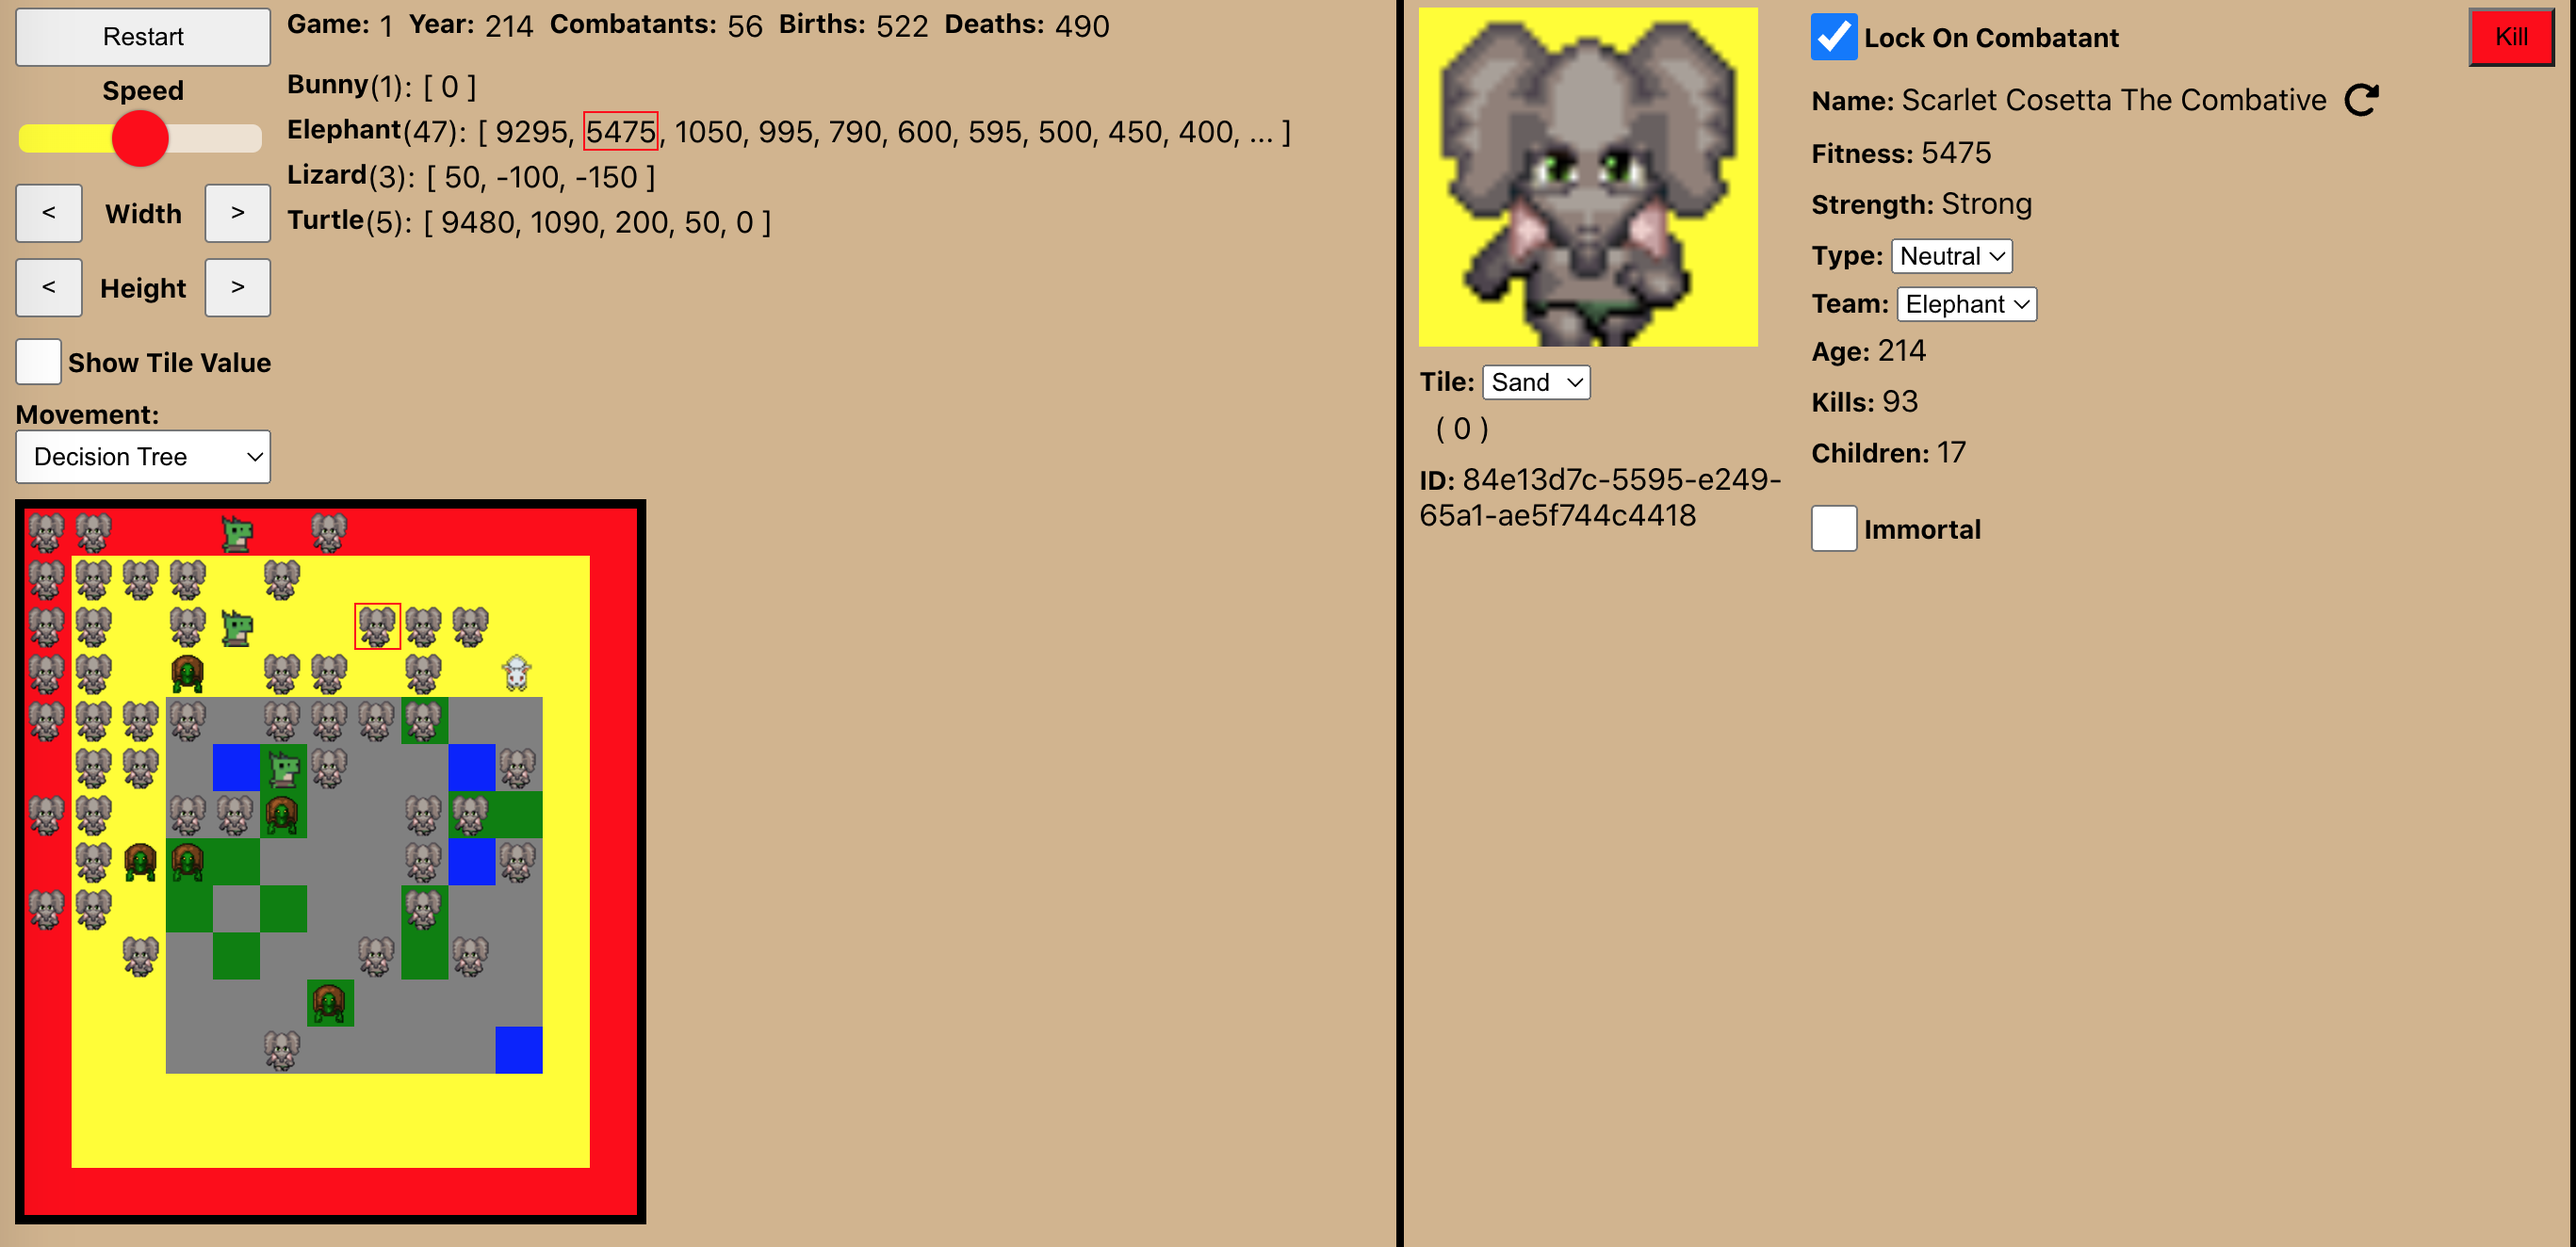
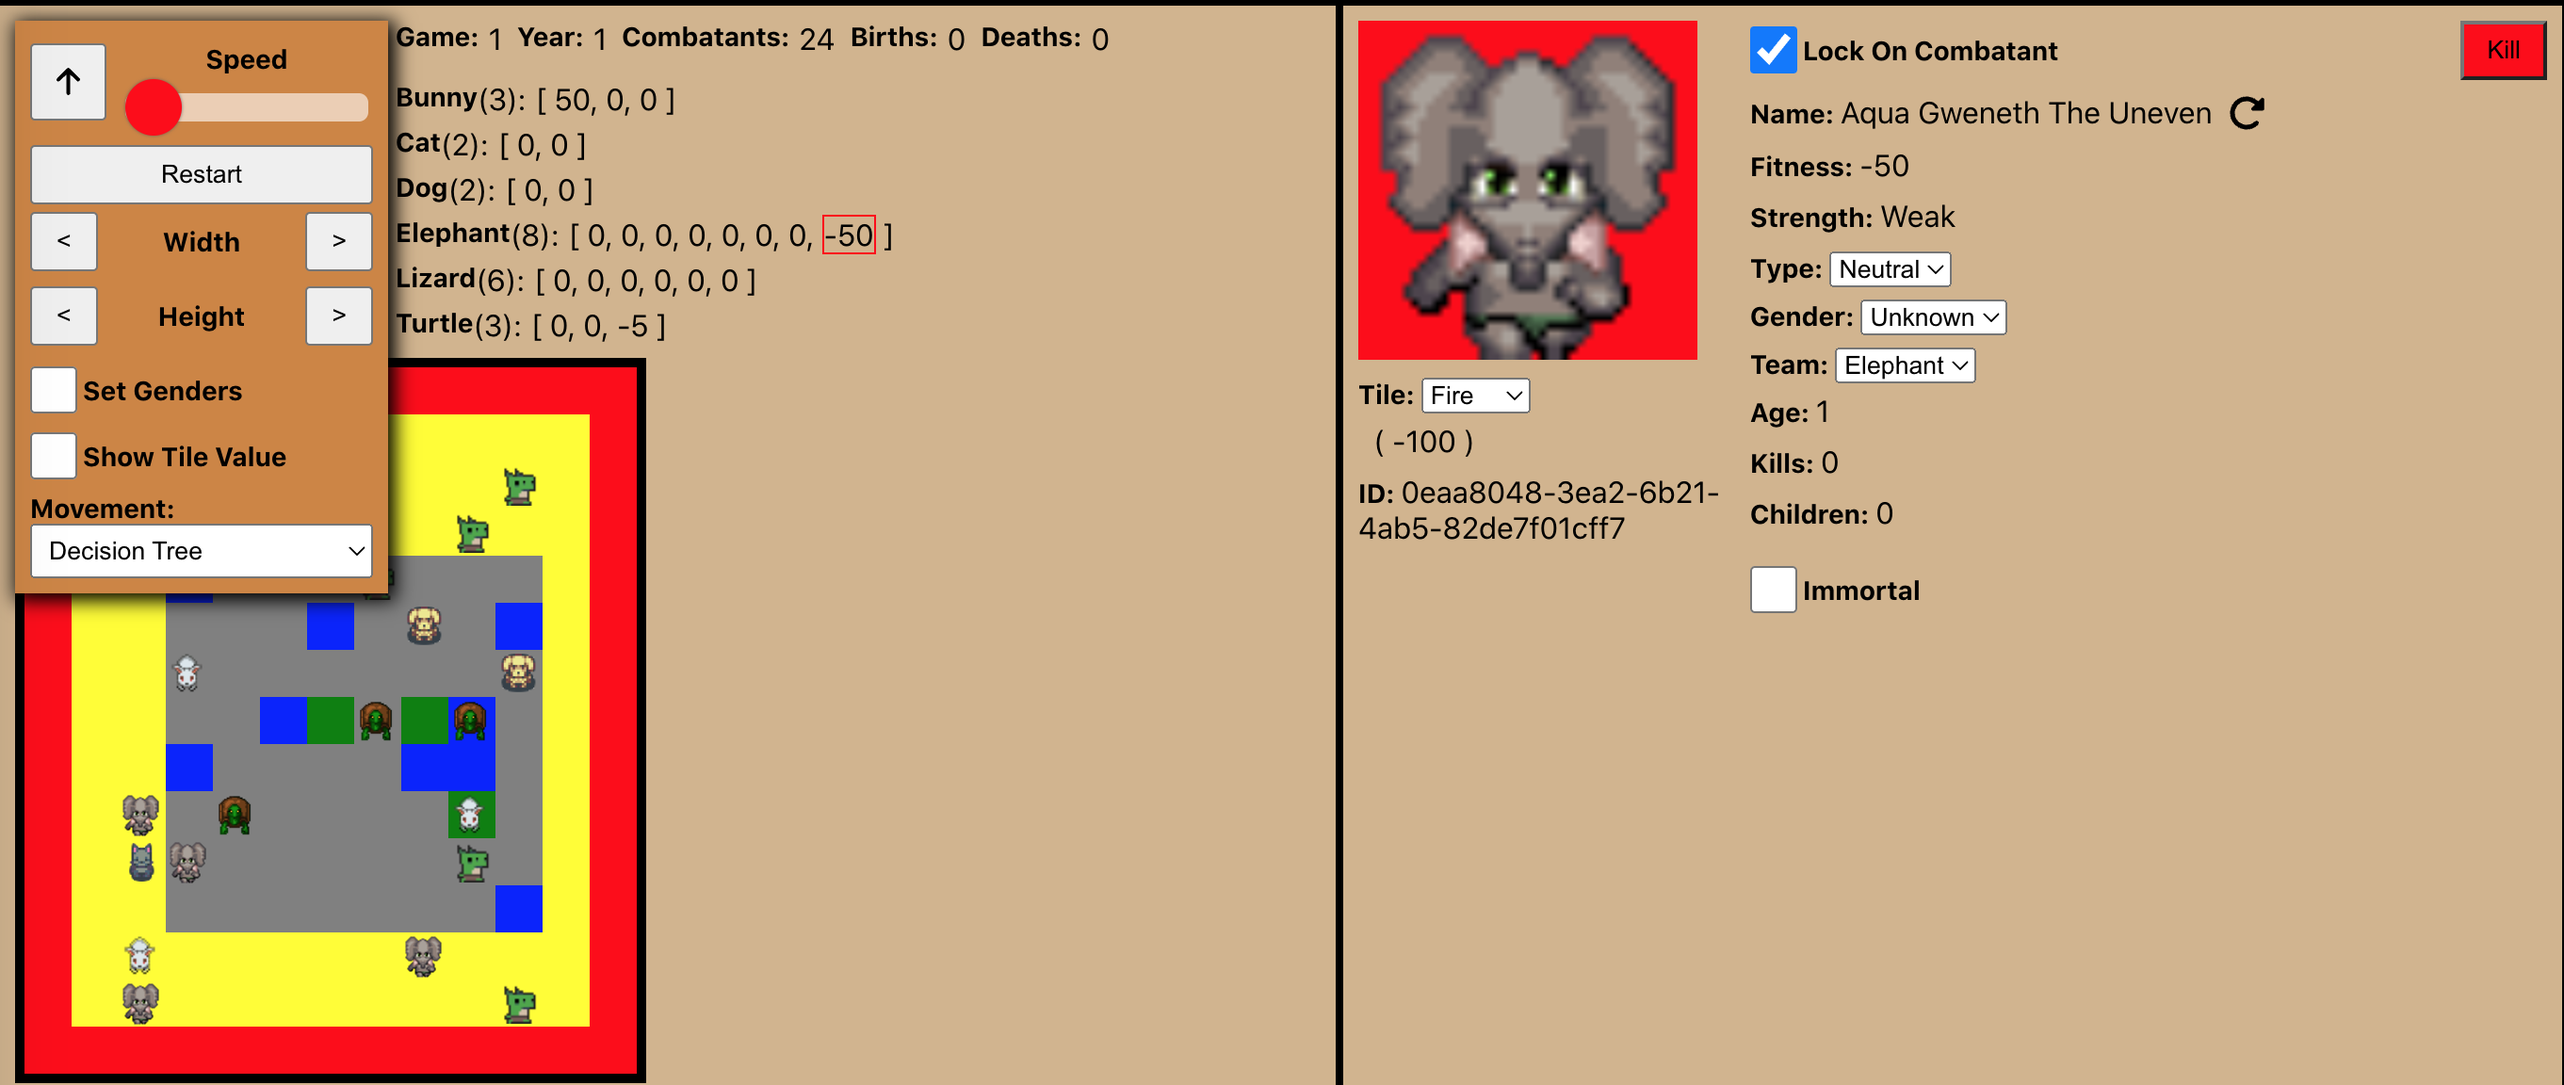
Creates a collapsable cheshire-esk dropdown panel for settings.

Changed region(s): [[0.0, 0.0, 0.9993, 1.0], [0.0, 0.875, 0.2498, 1.0], [0.1561, 0.8438, 0.1874, 0.9062]]

diff --git a/src/components/Dashboard.tsx b/src/components/Dashboard.tsx
@@ -9,6 +9,9 @@ import { AppDispatch, AppState } from "../data/store";
 import CombatantModel, { Character } from "../models/CombatantModel";
 import { useState } from "react";
 import { useEffect } from "react";
+import { FontAwesomeIcon } from '@fortawesome/react-fontawesome'
+import { faArrowDown } from '@fortawesome/free-solid-svg-icons/faArrowDown'
+import { faArrowUp } from '@fortawesome/free-solid-svg-icons/faArrowUp'
 
 const getTeamStats = (combatants: Combatants, selected_position: number | undefined, dispatch: AppDispatch) => {
     const teams = Object.values(Character).reduce((teams, cha) => {
@@ -99,32 +102,57 @@ const Dashboard = (args: {onReset: () => void}) => {
         dispatch(speedChange(parseInt((input.target as HTMLInputElement).value)))
     };
 
-    const speed_section = (
-        <div style={{flexDirection: 'column'}} className="Speed_buttons_container">
-            <span  className="Label" style={{alignSelf: 'center'}}>{`Speed`}</span>
-            <div className="Slider_container">
-                <input 
-                    style={{backgroundSize: `${speed_setting/MAX_TICK_SPEED*100}% 100%`}}
-                    type="range" 
-                    className="Slider" 
-                    min="0" 
-                    max={MAX_TICK_SPEED} 
-                    value={speed_setting}
-                    // @ts-ignore
-                    onKeyUpCapture={speedChangeKeyCapture}
-                    // @ts-ignore
-                    onClickCapture={speedChangeKeyCapture}
-                    // @ts-ignore
-                    onTouchEndCapture={speedChangeKeyCapture}
-                    onChange={(input) => {
-                        setSpeedSetting(parseInt(input.target.value));
-                    }}
+    const [show_settings, setShowSettings] = useState(false);
+
+
+    const show_settings_button = (
+        <div style={{margin: "4px 8px 0px 0px"}}>
+            <button 
+                className={classNames('Clickable', 'Button', 'Restart')} 
+                onClick={() => setShowSettings(!show_settings)
+            }>
+                <FontAwesomeIcon 
+                    className="Clickable" 
+                    icon={show_settings ? faArrowUp : faArrowDown} 
+                    color='dark' 
+                    size='lg' 
+                    style={{alignSelf: 'center', margin: '4px 0px 4px 0px'}}
                 />
+            </button>
+        </div>
+    );
+    const speed_section = (
+        <div 
+            className={classNames("Row", "Settings_panel")} 
+            style={{maxHeight: "50px", width: "182px"}}
+        >
+            {show_settings_button}
+            <div style={{flexDirection: 'column'}} className="Speed_buttons_container">
+                <span  className="Label" style={{alignSelf: 'center'}}>{`Speed`}</span>
+                <div className="Slider_container">
+                    <input 
+                        style={{backgroundSize: `${speed_setting/MAX_TICK_SPEED*100}% 100%`}}
+                        type="range" 
+                        className="Slider" 
+                        min="0" 
+                        max={MAX_TICK_SPEED} 
+                        value={speed_setting}
+                        // @ts-ignore
+                        onKeyUpCapture={speedChangeKeyCapture}
+                        // @ts-ignore
+                        onClickCapture={speedChangeKeyCapture}
+                        // @ts-ignore
+                        onTouchEndCapture={speedChangeKeyCapture}
+                        onChange={(input) => {
+                            setSpeedSetting(parseInt(input.target.value));
+                        }}
+                    />
+                </div>
             </div>
         </div>
     );
     const resize_section = (
-        <>
+        <div style={{width: "182px"}}>
             <div className="Speed_buttons_container">
                 <button className={classNames('Clickable', 'Button')} onClick={() => dispatch(shrinkWidth())}>
                     <span>{"<"}</span>
@@ -175,22 +203,36 @@ const Dashboard = (args: {onReset: () => void}) => {
                         {Object.values(MovementLogic).map(l => (<option key={l.toString()}>{l}</option>))}
                     </select>
             </div>
-        </>
+        </div>
+    );
+
+    const restart_button = (
+        <button 
+        style={{width: "182px"}}
+            className={classNames('Clickable', 'Button', 'Restart')} 
+            onClick={() => onReset()
+        }>
+            <span>{"Restart"}</span>
+        </button>
+    );
+    const settings_section = (
+        <div 
+            className={classNames("Control_container", "Settings_panel")} 
+            style={{position: "absolute", marginTop: "-66px", zIndex: "999", boxShadow: "2px 2px 10px 2px"}}
+        >
+            {speed_section}
+            {restart_button}
+            {resize_section}
+        </div>
     );
 
     return (
         <div className={'Dashboard'}>
-            <div className="Control_container">
-                <button 
-                    className={classNames('Clickable', 'Button', 'Restart')} 
-                    onClick={() => onReset()
-                }>
-                    <span>{"Restart"}</span>
-                </button>
+            <div className={classNames({"Settings_panel_expanded" : show_settings})}>
                 {speed_section}
-                {resize_section}
+                {show_settings && settings_section}
             </div>
-            <div style={{flexGrow: 1}}>
+            <div className="Stats_panel">
                 <div className={'Row_group'}>
                     <div className={'Row'}>
                         <span className={'Label'}>{'Game:'}</span>

diff --git a/src/css/Dashboard.css b/src/css/Dashboard.css
@@ -10,6 +10,7 @@
     flex-direction: row;
     flex-wrap: wrap;
     max-width: fit-content;
+    align-items: flex-start;
     padding-right: 8px;
 }
 .Dashboard .Row_group {
@@ -22,6 +23,7 @@
     margin-right: 8px;
     display: flex;
     flex-direction: column;
+    width: 190px;
 }
 
 .Dashboard .Dropdown_container {
@@ -74,4 +76,26 @@
     border: 1px solid red;
     width: 23px;
     height: 23px;
+}
+
+.Dashboard .Settings_panel {
+    background-color: peru;
+    padding: 8px 8px 8px 8px;
+}
+
+.Dashboard .Settings_panel > .Settings_panel {
+    padding: 0px 0px 8px 0px;
+}
+
+.Dashboard .Settings_panel_expanded {
+    padding: 0px 8px 0px 0px;
+}
+
+.Dashboard .Settings_panel_expanded > .Settings_panel {
+    padding: 8px 0px 8px 8px;
+}
+
+.Dashboard .Stats_panel {
+    flex-grow: 1;
+    padding-left: 4px;
 }
